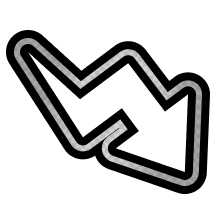
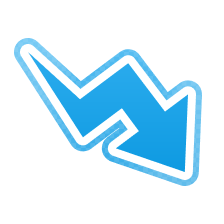
Add files via upload

diff --git a/js/main.js b/js/main.js
@@ -80,40 +80,8 @@ function iconHTML(type, name, className = '') {
   if (!file) return '';
 
   const color = getIconColor(clean);
-  return `<img class="icon-image ${escapeHTML(className)}" src="assets/${escapeHTML(type)}/${escapeHTML(file)}" alt="" aria-hidden="true" data-icon-name="${escapeHTML(clean)}" style="--icon-color:${escapeHTML(color)};filter:${escapeHTML(getIconFilter(clean))}">`;
+  return `<img class="icon-image ${escapeHTML(className)}" src="assets/${escapeHTML(type)}/${escapeHTML(file)}" alt="" aria-hidden="true" data-icon-name="${escapeHTML(clean)}" style="--icon-color:${escapeHTML(color)}">`;
 }
-
-function getIconFilter(name) {
-  const filters = {
-    Magical: 'brightness(0) saturate(100%) invert(69%) sepia(87%) saturate(1800%) hue-rotate(161deg) brightness(98%) contrast(94%)',
-    Physical: 'brightness(0) saturate(100%) invert(18%) sepia(94%) saturate(3500%) hue-rotate(344deg) brightness(84%) contrast(100%)',
-    Psychic: 'brightness(0) saturate(100%) invert(51%) sepia(76%) saturate(1600%) hue-rotate(285deg) brightness(101%) contrast(91%)',
-    Hydro: 'brightness(0) saturate(100%) invert(54%) sepia(91%) saturate(1761%) hue-rotate(186deg) brightness(101%) contrast(97%)',
-    Gale: 'brightness(0) saturate(100%) invert(67%) sepia(54%) saturate(714%) hue-rotate(38deg) brightness(95%) contrast(91%)',
-    Wind: 'brightness(0) saturate(100%) invert(67%) sepia(54%) saturate(714%) hue-rotate(38deg) brightness(95%) contrast(91%)',
-    Terra: 'brightness(0) saturate(100%) invert(44%) sepia(47%) saturate(1214%) hue-rotate(343deg) brightness(91%) contrast(88%)',
-    Fire: 'brightness(0) saturate(100%) invert(48%) sepia(96%) saturate(2234%) hue-rotate(359deg) brightness(101%) contrast(102%)',
-    Flame: 'brightness(0) saturate(100%) invert(48%) sepia(96%) saturate(2234%) hue-rotate(359deg) brightness(101%) contrast(102%)',
-    Storm: 'brightness(0) saturate(100%) invert(78%) sepia(48%) saturate(870%) hue-rotate(130deg) brightness(90%) contrast(89%)',
-    Light: 'brightness(0) saturate(100%) invert(84%) sepia(83%) saturate(720%) hue-rotate(351deg) brightness(103%) contrast(98%)',
-    Dark: 'brightness(0) saturate(100%) invert(25%) sepia(96%) saturate(3474%) hue-rotate(258deg) brightness(90%) contrast(107%)',
-    Bulwark: 'brightness(0) saturate(100%) invert(92%) sepia(4%) saturate(70%) hue-rotate(212deg) brightness(93%) contrast(89%)',
-    'Zone Debuff': 'brightness(0) saturate(100%) invert(92%) sepia(4%) saturate(70%) hue-rotate(212deg) brightness(93%) contrast(89%)',
-    Transformer: 'brightness(0) saturate(100%) invert(72%) sepia(3%) saturate(16%) hue-rotate(314deg) brightness(91%) contrast(88%)',
-    Greed: 'brightness(0) saturate(100%) invert(92%) sepia(4%) saturate(70%) hue-rotate(212deg) brightness(93%) contrast(89%)',
-    Shielded: 'brightness(0) saturate(100%) invert(69%) sepia(98%) saturate(1715%) hue-rotate(155deg) brightness(95%) contrast(102%)',
-    Summoner: 'brightness(0) saturate(100%) invert(31%) sepia(98%) saturate(4141%) hue-rotate(273deg) brightness(100%) contrast(104%)',
-    Burrowing: 'brightness(0) saturate(100%) invert(40%) sepia(43%) saturate(1257%) hue-rotate(344deg) brightness(90%) contrast(91%)',
-    Tartaros: 'brightness(0) saturate(100%) invert(72%) sepia(99%) saturate(1197%) hue-rotate(45deg) brightness(105%) contrast(106%)',
-    Momentum: 'brightness(0) saturate(100%) invert(43%) sepia(98%) saturate(1706%) hue-rotate(166deg) brightness(94%) contrast(101%)',
-    'Status Cleanse': 'brightness(0) saturate(100%) invert(92%) sepia(4%) saturate(70%) hue-rotate(212deg) brightness(93%) contrast(89%)',
-    Commander: 'brightness(0) saturate(100%) invert(84%) sepia(98%) saturate(1058%) hue-rotate(3deg) brightness(103%) contrast(101%)',
-    Stunner: 'brightness(0) saturate(100%) invert(92%) sepia(4%) saturate(70%) hue-rotate(212deg) brightness(93%) contrast(89%)',
-    Sword: 'brightness(0) saturate(100%) invert(69%) sepia(98%) saturate(1715%) hue-rotate(155deg) brightness(95%) contrast(102%)'
-  };
-  return filters[String(name ?? '').trim()] || 'none';
-}
-
 
 const MODIFIER_COLORS = {
   Summoner: '#B52BFF',
@@ -183,7 +151,7 @@ function resistanceHTML(type, value) {
   const clean = displayValue(value);
   if (clean === '---') return '<span class="muted-value">---</span>';
   const color = getIconColor(type);
-  return `<span class="resistance-item" style="--data-color:${escapeHTML(color)}">${iconHTML('archetypes', type)}<span>${escapeHTML(clean)}</span></span>`;
+  return `<span class="resistance-item" style="--data-color:${escapeHTML(color)}">${iconHTML('archetypes', type)}<span style="color:${escapeHTML(color)}">${escapeHTML(clean)}</span></span>`;
 }
 
 const ELEMENT_NAMES = new Set(['Hydro', 'Gale', 'Terra', 'Fire', 'Flame', 'Storm', 'Light', 'Dark']);
@@ -227,7 +195,7 @@ function affinityHTML(item) {
   const element = displayElementName(rawElement);
   const value = displayValue(item.value);
   const color = getIconColor(rawElement);
-  return `<span class="affinity-item" style="--data-color:${escapeHTML(color)}">${iconHTML('elements', rawElement)}<span>${escapeHTML(element)}</span><b>${escapeHTML(value)}</b></span>`;
+  return `<span class="affinity-item" style="--data-color:${escapeHTML(color)}">${iconHTML('elements', rawElement)}<span style="color:${escapeHTML(color)}">${escapeHTML(element)}</span><b style="color:${escapeHTML(color)}">${escapeHTML(value)}</b></span>`;
 }
 
 function loadoutHTML(floor) {
@@ -259,7 +227,7 @@ function floorSummary(floor) {
   const modifier = cleanModifier(floor.modifier);
   const affinities = normalizeAffinityList(floor.affinities);
   const summaryAffinities = affinities.length
-    ? affinities.map(item => `<span class="summary-affinity">${iconHTML('elements', item.element)}<span>${escapeHTML(displayElementName(item.element))}</span><b>${escapeHTML(item.value)}</b></span>`).join('')
+    ? affinities.map(item => `<span class="summary-affinity" style="--data-color:${escapeHTML(getIconColor(item.element))}">${iconHTML('elements', item.element)}<span style="color:${escapeHTML(getIconColor(item.element))}">${escapeHTML(displayElementName(item.element))}</span><b style="color:${escapeHTML(getIconColor(item.element))}">${escapeHTML(item.value)}</b></span>`).join('')
     : '<span class="muted-value">---</span>';
 
   return `<button class="floor-summary" type="button" aria-expanded="false">

diff --git a/css/cards.css b/css/cards.css
@@ -125,14 +125,6 @@
   color: #d4d0e2;
 }
 
-.data-icon {
-  width: 24px;
-  height: 24px;
-  flex: 0 0 24px;
-  object-fit: contain;
-  display: inline-block;
-  vertical-align: middle;
-}
 
 .modifier-pill {
   gap: 8px;
@@ -202,11 +194,11 @@
   display: none;
 }
 
-/* Local PNG icon system: one image element per icon, no masks or pseudo-elements. */
-.icon-image { width: 24px; height: 24px; flex: 0 0 24px; display: inline-block; object-fit: contain; vertical-align: middle; filter: none; }
-.icon-image.modifier-icon { width: 28px; height: 28px; flex-basis: 28px; }
-.summary-affinity .icon-image { width: 24px; height: 24px; flex-basis: 24px; }
-.affinity-item .icon-image { width: 28px; height: 28px; flex-basis: 28px; }
+/* Local PNG icon system: baked-color PNGs, one image element per icon. */
+.icon-image { width:24px; height:24px; flex:0 0 24px; display:block; object-fit:contain; object-position:center; vertical-align:middle; filter:none; background:none; border:0; box-shadow:none; }
+.icon-image.modifier-icon { width:28px; height:28px; flex-basis:28px; }
+.summary-affinity .icon-image { width:24px; height:24px; flex-basis:24px; }
+.affinity-item .icon-image { width:28px; height:28px; flex-basis:28px; }
 
 .summary-boss-hp b, .hp-row-boss b { color: #ff4b57; }
 .summary-enemy-hp b, .hp-row-enemy b { color: #72d69a; }

diff --git a/css/style.css b/css/style.css
@@ -43,7 +43,7 @@ img { max-width: 100%; }
 @keyframes fade-in { from { opacity: 0; } to { opacity: 1; } }
 @keyframes pop-in { from { opacity: 0; transform: scale(.96); } to { opacity: 1; transform: scale(1); } }
 
-a, button, input, select, .icon-image { transition: color .2s ease, background-color .2s ease, border-color .2s ease, transform .2s ease, box-shadow .2s ease, opacity .2s ease; }
+a, button, input, select { transition: color .2s ease, background-color .2s ease, border-color .2s ease, transform .2s ease, box-shadow .2s ease, opacity .2s ease; }
 
 .app-shell { width: min(1450px, calc(100% - 34px)); margin: 0 auto; padding: 12px 0 34px; position: relative; z-index: 2; }
 .site-header { min-height: 64px; display: flex; align-items: center; justify-content: space-between; gap: 20px; border-bottom: 1px solid var(--line); }
